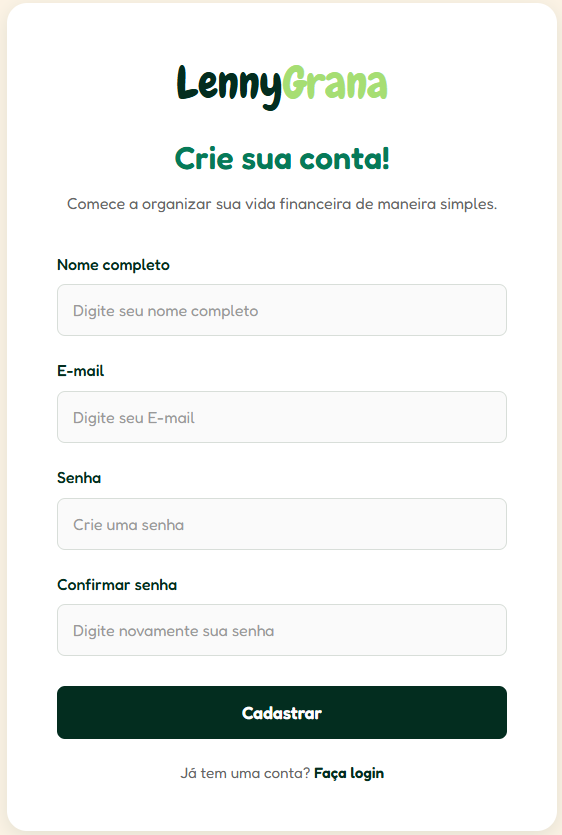
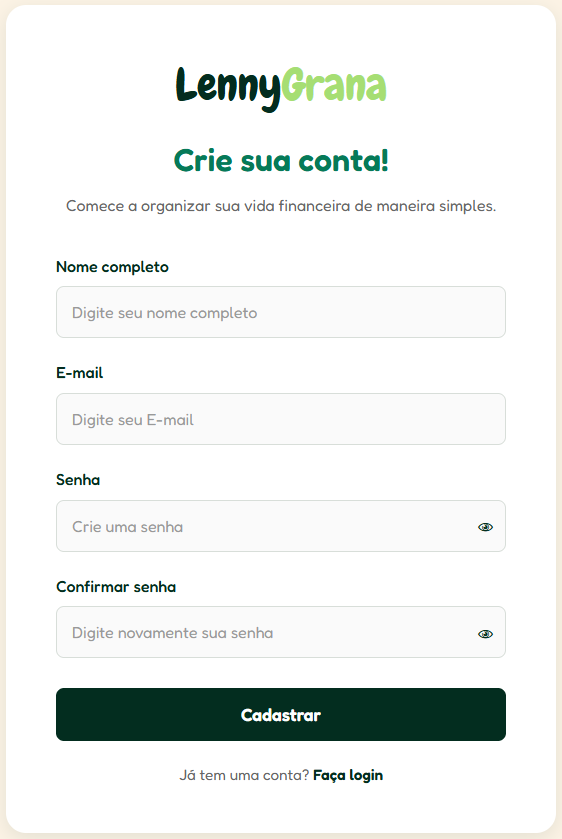
Adicionando recurso à tela de cadastro, botão de ocultar/mostrar senha

diff --git a/cadastro.html b/cadastro.html
@@ -26,11 +26,21 @@
                 </div>
                 <div class="form-grupo">
                     <label for="senha">Senha</label>
-                    <input type="password" id="senha" name="senha" placeholder="Crie uma senha" autocomplete="new-password" required>
+                    <div class="campo-senha">
+                        <input type="password" id="senha" name="senha" placeholder="Crie uma senha" autocomplete="new-password" required>
+                        <button type="button" class="mostrar-senha" aria-label="Mostrar senha">
+                            <span class="olho-senha">👁</span>
+                        </button>
+                    </div>
                 </div>
                 <div class="form-grupo">
                     <label for="confirmar-senha">Confirmar senha</label>
-                    <input type="password" id="confirmar-senha" name="confirmar-senha" placeholder="Digite novamente sua senha" required>
+                    <div class="campo-senha">
+                        <input type="password" id="confirmar-senha" name="confirmar-senha" placeholder="Digite novamente sua senha" required>
+                        <button type="button" class="mostrar-senha" aria-label="Mostrar senha">
+                            <span class="olho-senha">👁</span>
+                        </button>
+                    </div>
                 </div>
                 <button type="submit" class="botao-cadastro">Cadastrar</button>
             </form>

diff --git a/css/cadastro.css b/css/cadastro.css
@@ -154,6 +154,38 @@ button {
     text-decoration: underline;
 }
 
+.campo-senha {
+    position: relative;
+    display: flex;
+    align-items: center;
+}
+
+.campo-senha input {
+    padding-right: 45px;
+}
+
+.mostrar-senha {
+    position: absolute;
+    right: 12px;
+    display: flex;
+    align-items: center;
+    justify-content: center;
+    border: none;
+    background: transparent;
+    cursor: pointer;
+    color: var(--verde-escuro);
+    font-size: 1.1rem;
+}
+
+.mostrar-senha:hover {
+    color: var(--verde-medio);
+}
+
+input::-ms-reveal,
+input::-ms-clear {
+    display: none;
+}
+
 @media (min-width: 701px) {
     .cadastro-container {
         align-items: center;

diff --git a/js/cadastro.js b/js/cadastro.js
@@ -1,0 +1,14 @@
+const botoesMostrarSenha = document.querySelectorAll('.mostrar-senha');
+botoesMostrarSenha.forEach((botao) => {
+    botao.addEventListener('click', () => {
+        const campoSenha = botao.parentElement.querySelector('input');
+
+        if (campoSenha.type === 'password') {
+            campoSenha.type = 'text';
+            botao.setAttribute('aria-label', 'Ocultar senha');
+        } else {
+            campoSenha.type = 'password';
+            botao.setAttribute('aria-label', 'Mostrar senha');
+        }
+    });
+});
